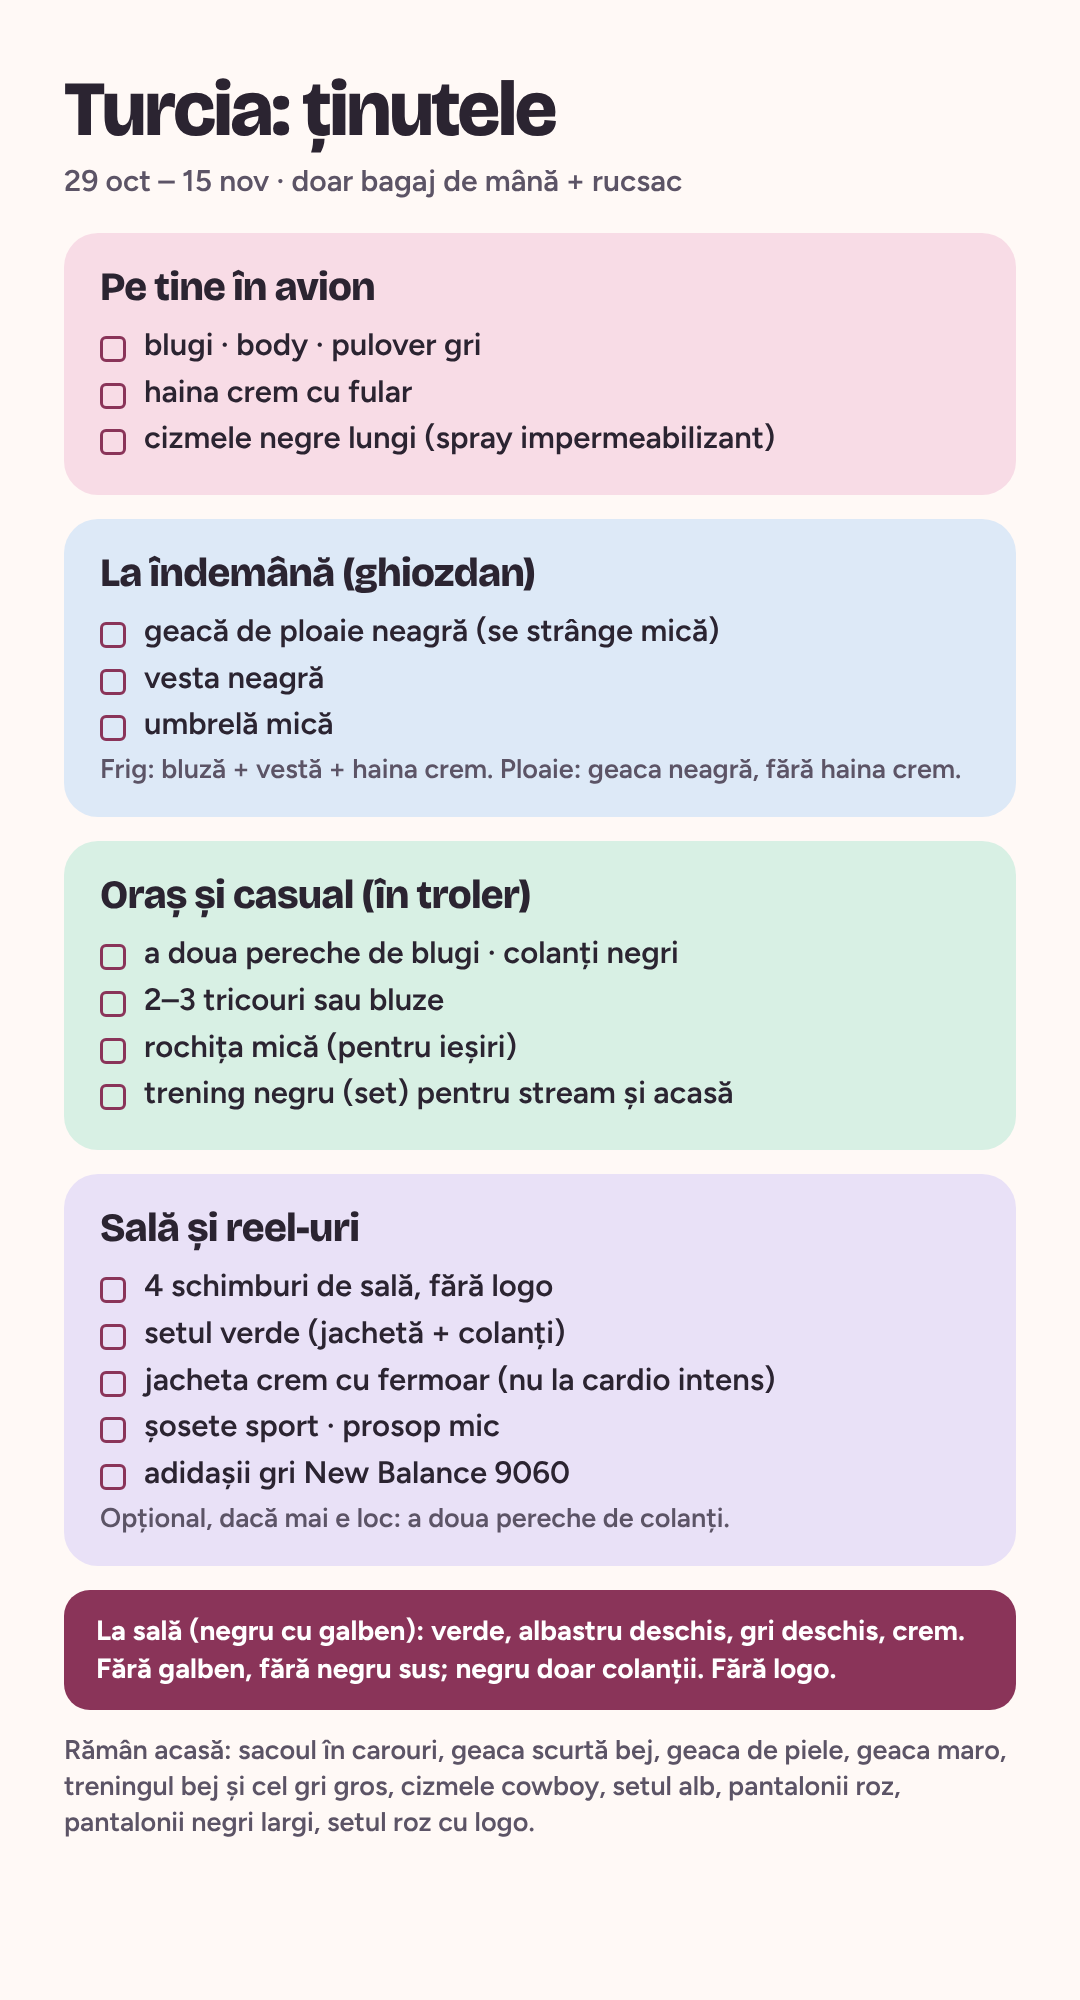
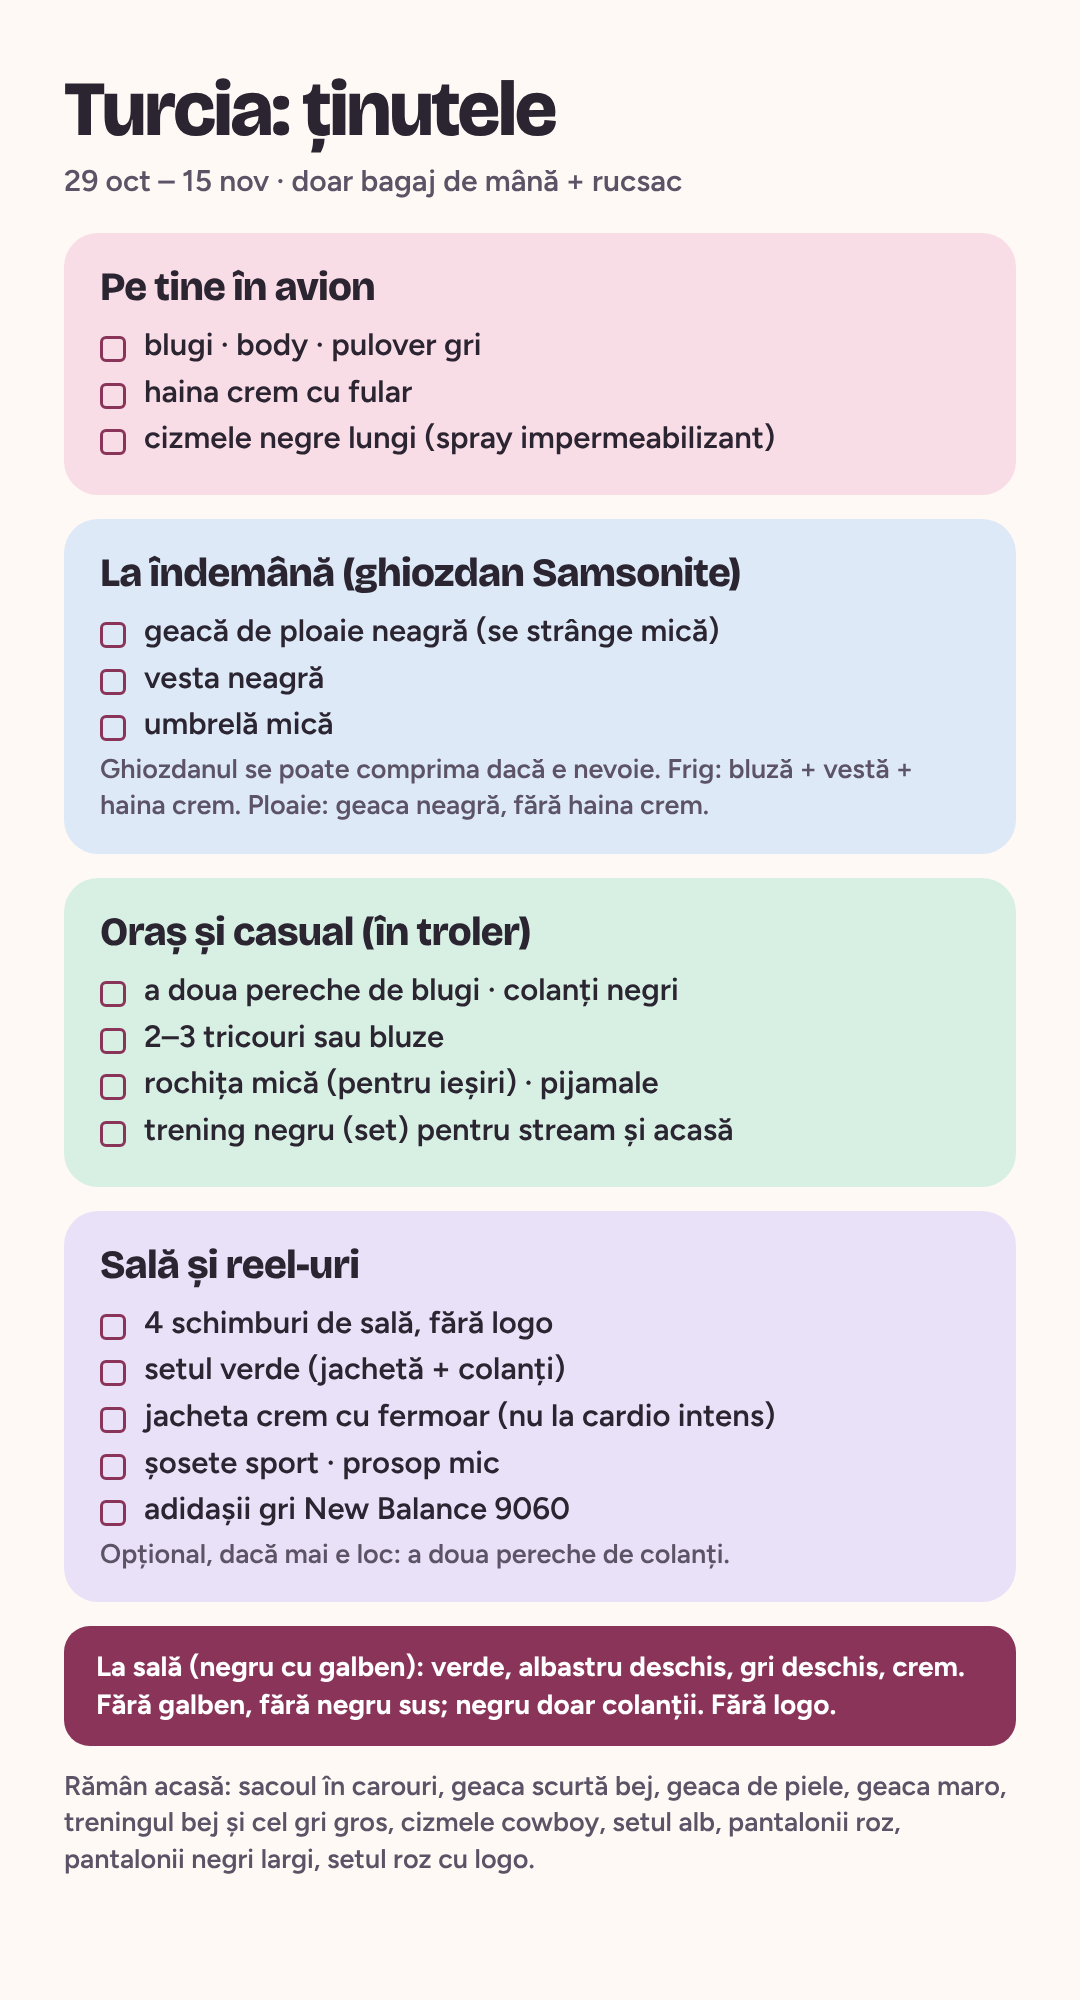
Ținute Turcia: pijamale, ghiozdan
Claude-Session: https://claude.ai/code/session_01AYCYtwFQ1HqKG8gwud9c92

Changed region(s): [[0.0611, 0.372, 0.9472, 0.961], [0.4889, 0.279, 0.7028, 0.31]]

diff --git a/brand/turcia/build_outfits.py b/brand/turcia/build_outfits.py
@@ -20,8 +20,8 @@ def box(bg, title, items, note=''):
     return '<div class="box" style="background:var(--%s)"><h2>%s</h2><ul>%s</ul>%s</div>' % (bg, title, ''.join('<li>%s</li>' % i for i in items), ('<div class="note">%s</div>' % note) if note else '')
 body = ('<div class="s"><h1>Turcia: ținutele</h1><p class="sub">29 oct – 15 nov · doar bagaj de mână + rucsac</p>'
  + box('pink', 'Pe tine în avion', ['blugi · body · pulover gri', 'haina crem cu fular', 'cizmele negre lungi (spray impermeabilizant)'])
- + box('blue', 'La îndemână (ghiozdan)', ['geacă de ploaie neagră (se strânge mică)', 'vesta neagră', 'umbrelă mică'], 'Frig: bluză + vestă + haina crem. Ploaie: geaca neagră, fără haina crem.')
- + box('mint', 'Oraș și casual (în troler)', ['a doua pereche de blugi · colanți negri', '2–3 tricouri sau bluze', 'rochița mică (pentru ieșiri)', 'trening negru (set) pentru stream și acasă'])
+ + box('blue', 'La îndemână (ghiozdan Samsonite)', ['geacă de ploaie neagră (se strânge mică)', 'vesta neagră', 'umbrelă mică'], 'Ghiozdanul se poate comprima dacă e nevoie. Frig: bluză + vestă + haina crem. Ploaie: geaca neagră, fără haina crem.')
+ + box('mint', 'Oraș și casual (în troler)', ['a doua pereche de blugi · colanți negri', '2–3 tricouri sau bluze', 'rochița mică (pentru ieșiri) · pijamale', 'trening negru (set) pentru stream și acasă'])
  + box('lilac', 'Sală și reel-uri', ['4 schimburi de sală, fără logo', 'setul verde (jachetă + colanți)', 'jacheta crem cu fermoar (nu la cardio intens)', 'șosete sport · prosop mic', 'adidașii gri New Balance 9060'], 'Opțional, dacă mai e loc: a doua pereche de colanți.')
  + '<div class="rule">La sală (negru cu galben): verde, albastru deschis, gri deschis, crem. Fără galben, fără negru sus; negru doar colanții. Fără logo.</div>'
  + '<p class="note" style="margin-top:22px">Rămân acasă: sacoul în carouri, geaca scurtă bej, geaca de piele, geaca maro, treningul bej și cel gri gros, cizmele cowboy, setul alb, pantalonii roz, pantalonii negri largi, setul roz cu logo.</p></div>')
